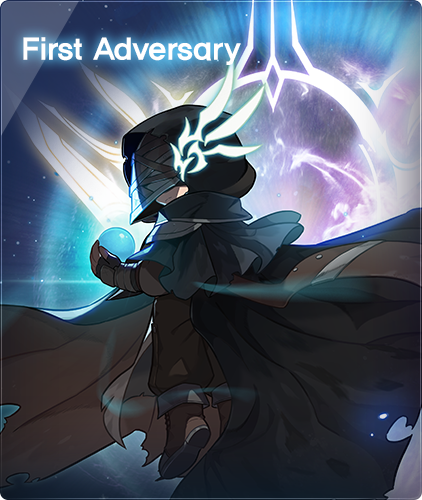
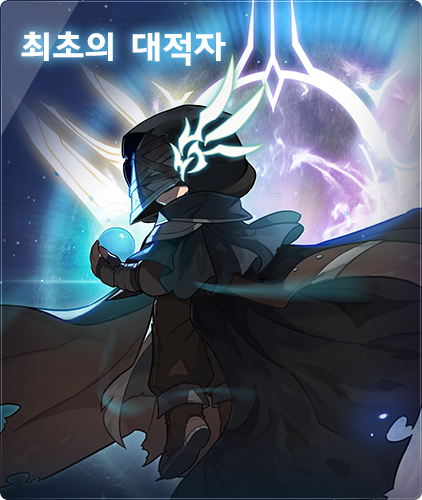
보스 정보 카드 한글판 추가 5장, 스우는 새 일러스트로, 해방 계산기 벨로나 아이콘
- 림보·발드릭스·최초의 대적자·찬란한 흉성·유피테르: 메이플 위키 Boss UI 파일 역사의 KMS 한글판. 글자 아래 그림이 GMS 게임 그림과 픽셀까지 같음, 찬란한 흉성만 조금 다름
- 스우: KMS v.389 그림은 리뉴얼 전 옛 일러스트라 새 일러스트인 GMS 그림으로 되돌림
- 해방 계산기 벨로나: 예전 그림 대신 메이플 위키 Maple Guide - Bellona 66×67 아이콘
- 카드 그림 주소 v를 올려 바뀐 그림이 바로 보이게

Changed region(s): [[0.0308, 0.03, 0.5853, 0.15]]

diff --git a/GMS_WEEK_BOSS/bosshp.js b/GMS_WEEK_BOSS/bosshp.js
@@ -12,7 +12,7 @@ const BOSS_IMG_EXTRA = { '벨로나': 'images/bosses/Bellona.png' };
 // 위와 같은 보스의 카드 그림 파일 이름. images/official/boss_card/<이름>.png
 const BOSS_CARD_EXTRA = { '벨로나': 'bellona' };
 // 카드 그림을 같은 파일 이름으로 바꿀 때 서비스 워커가 옛 그림을 내주지 않도록 v를 올린다
-const _bhpCardSrc = id => `images/official/boss_card/${id}.png?v=20261031a`;
+const _bhpCardSrc = id => `images/official/boss_card/${id}.png?v=20261031b`;
 const bossHPActiveDiffs = {};
 const busChecked = new Set(); // 버스 참조에 추가된 보스명
 const busDiffs   = {};        // 버스 패널 전용 난이도 선택
@@ -275,10 +275,11 @@ function renderBossHPTable() {
   });
 
   /* 카드 그림은 게임 파일 UI/UIBoss.img 보스 목록의 큰 그림 422×500이고 보스 이름 글자가 그림에 들어 있다. 지수 요청으로 한글판을 쓴다.
-     - KMS v.389 그림 22장: 서버마다 번호가 달라 GMS 그림과 글자 아래쪽 모양을 대조해 짝지었다. 스우는 KMS 그림이 GMS와 다른 일러스트다
-     - 벨로나: 메이플 위키에 올라온 KMS 그림
+     - KMS v.389 그림 21장: 서버마다 번호가 달라 GMS 그림과 글자 아래쪽 모양을 대조해 짝지었다
+     - 벨로나·림보·발드릭스·최초의 대적자·찬란한 흉성·유피테르: KMS v.389 뒤에 나온 보스라 메이플 위키 Boss UI 파일 역사에 남은
+       KMS 한글판을 지수가 받아 왔다. 글자 아래 그림이 GMS 게임 그림과 픽셀까지 같다, 찬란한 흉성만 조금 다르다
+     - 스우: KMS v.389 그림은 리뉴얼 전 옛 일러스트라 새 일러스트인 GMS 영문 그림. 새 그림의 한글판을 구하면 바꾼다
      - 아케치·노히메: KMS에 없는 일본 보스라 JMS v.444 일본어 그림
-     - 림보·발드릭스·최초의 대적자·찬란한 흉성·유피테르: KMS v.389 뒤에 나와 한글판을 아직 못 구해 GMS 영문 그림
      boss.img는 드랍 팝업이 GIF를 찾는 이름으로 쓰므로 그대로 두고 카드 그림만 따로 든다 */
   BOSS_DATA.forEach(bd => {
     const key = Object.keys(seen).find(k => norm(k) === norm(bd.name));

diff --git a/GMS_WEEK_BOSS/data_liberation.js b/GMS_WEEK_BOSS/data_liberation.js
@@ -46,7 +46,7 @@ const DESTINY_RESOLVE_YIELD = {
   jupiter:    { 노말:160, 하드:500 },
 };
 /* 해방 계산기 보스·재화 그림은 GMS v.270 게임 파일 원본 PNG다. 보스는 UI/UIBoss.img 보스 목록의 작은 아이콘,
-   재화는 아이템 아이콘이다. 벨로나는 GMS에 아직 없어 게임 그림이 없으므로 예전 그림을 쓴다 */
+   재화는 아이템 아이콘이다. 벨로나는 GMS에 아직 없어 메이플 위키에 올라온 KMS 같은 형식 아이콘 Maple Guide - Bellona를 쓴다 */
 const LIB_BOSS_ICON = id => `images/liberation/boss/${id}.png`;
 const DESTINY_BOSS_META = [
   { id:'seren',      name:'선택받은 세렌', maxParty:6, img:LIB_BOSS_ICON('seren') },
@@ -54,7 +54,7 @@ const DESTINY_BOSS_META = [
   { id:'daejuk',     name:'최초의 대적자', maxParty:3, img:LIB_BOSS_ICON('daejuk') },
   { id:'kaling',     name:'카링',          maxParty:6, img:LIB_BOSS_ICON('kaling') },
   { id:'hyungseong', name:'찬란한 흉성',   maxParty:3, img:LIB_BOSS_ICON('hyungseong') },
-  { id:'bellona',    name:'벨로나',        maxParty:3, img:'images/bosses/Bellona.png' },
+  { id:'bellona',    name:'벨로나',        maxParty:3, img:LIB_BOSS_ICON('bellona') },
   { id:'limbo',      name:'림보',          maxParty:3, img:LIB_BOSS_ICON('limbo') },
   { id:'baldrix',    name:'발드릭스',      maxParty:3, img:LIB_BOSS_ICON('baldrix') },
   { id:'jupiter',    name:'유피테르',      maxParty:3, img:LIB_BOSS_ICON('jupiter') },

diff --git a/GMS_WEEK_BOSS/index.html b/GMS_WEEK_BOSS/index.html
@@ -910,7 +910,7 @@
 <script src="data_hexa.js?v=20261030b"></script>
 <script src="data_bosshp.js?v=20261030a"></script>
 <script src="data_itemdesc.js?v=20260924b"></script>
-<script src="data_liberation.js?v=20261030b"></script>
+<script src="data_liberation.js?v=20261031a"></script>
 <script src="starforce.js?v=20261030a"></script>
 <script src="data_exp.js?v=20261002a"></script>
 <script src="app.js?v=20261031b"></script>
@@ -926,7 +926,7 @@
 <script src="liberation.js?v=20261030b"></script>
 <script src="starforce_sim.js?v=20261027b"></script>
 <script src="cube.js?v=20261030c"></script><script src="familiar.js?v=20261030a"></script><script src="soulsim.js?v=20261027f"></script><script src="polish.js?v=20261030a"></script><script src="mixdye_layer.js?v=20261028a"></script><script src="mixdye.js?v=20261030b"></script><script src="data_frontier.js?v=20260825g"></script><script src="frontier.js?v=20261030b"></script><script src="meundi.js?v=20261029a"></script><script src="victorypose.js?v=20261030b"></script><script src="mysticseal.js?v=20261031a"></script><script src="myutil.js?v=20261031i"></script>
-<script src="addoption.js?v=20261030a"></script><script src="bosshp.js?v=20261031a"></script>
+<script src="addoption.js?v=20261030a"></script><script src="bosshp.js?v=20261031b"></script>
 
 <script src="dailytasks.js?v=20261027t"></script>
 <script src="wantchannel.js?v=20261027b"></script>
